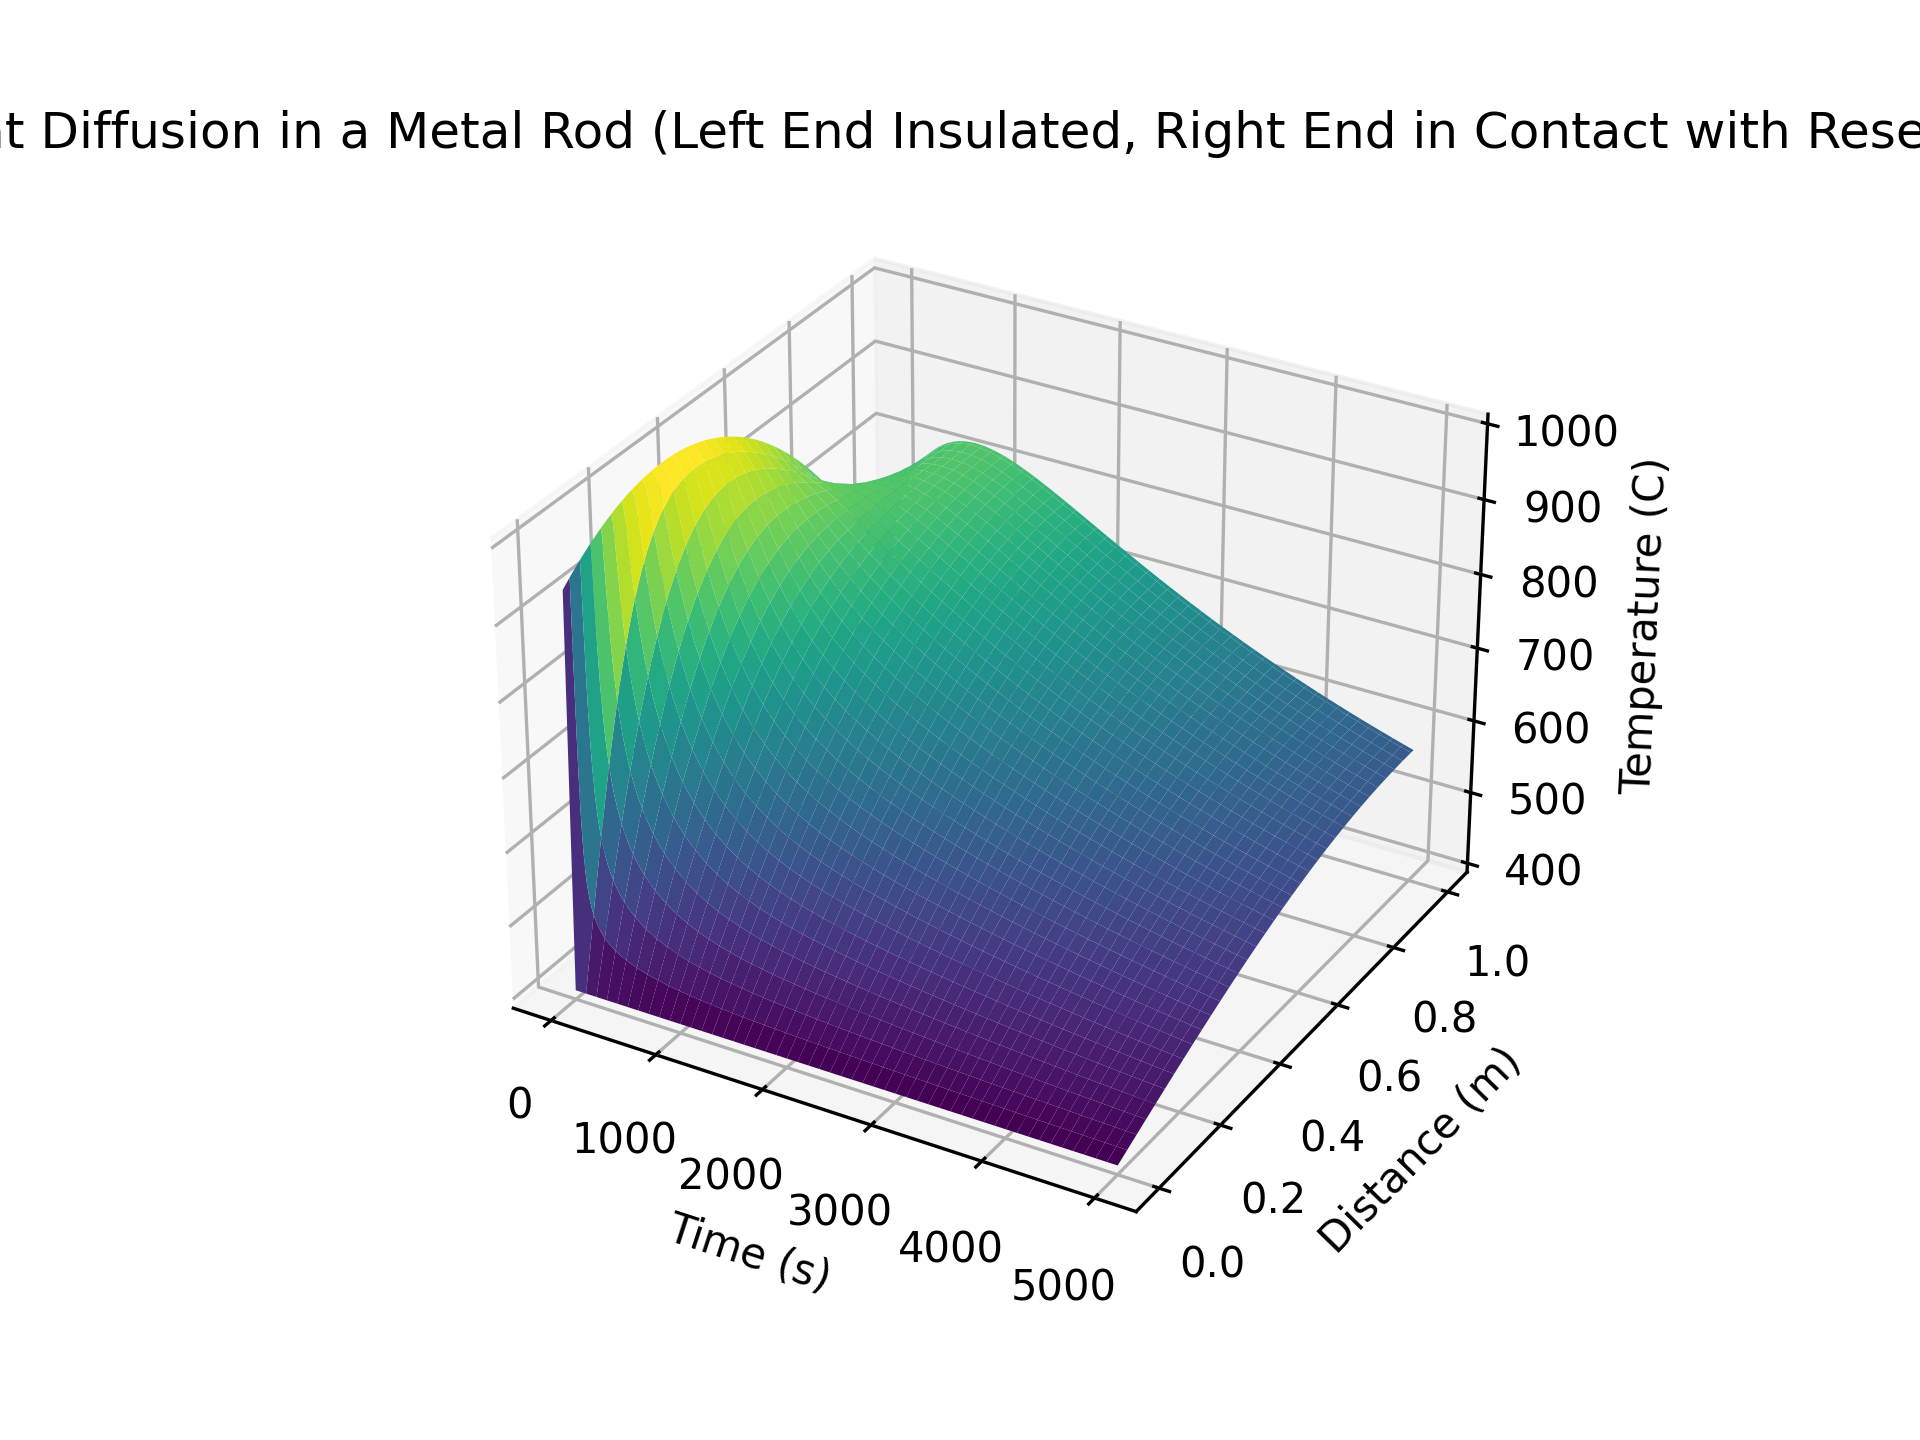
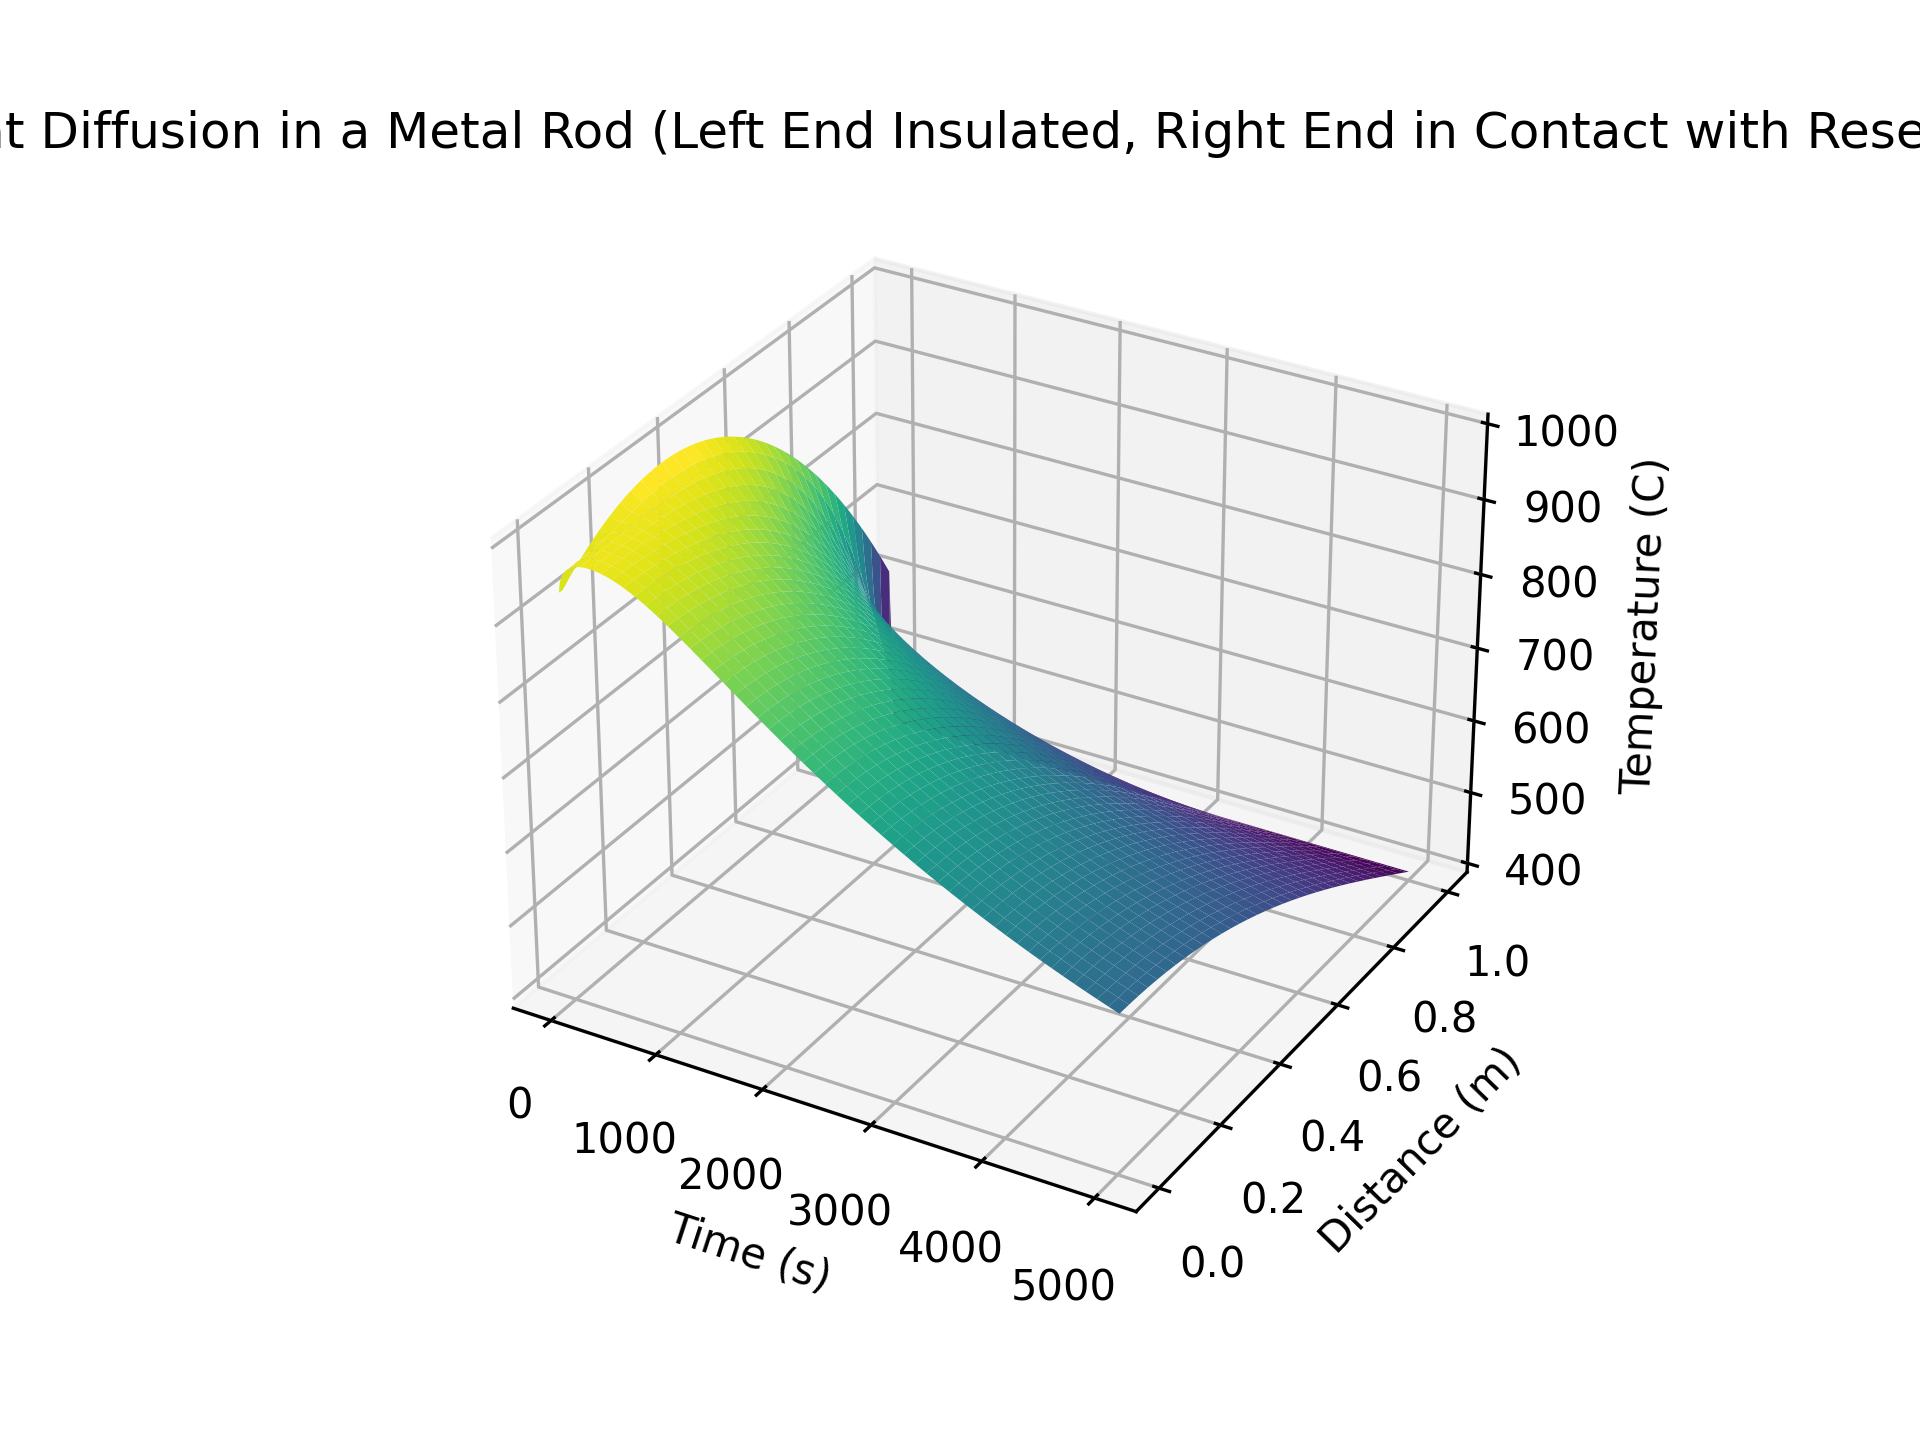
Added several rods case, TQDM and animation

Changed region(s): [[0.2812, 0.3125, 0.75, 0.8125]]

diff --git a/Heat_diffusion_in_metal_rods/Several_rods_merged.py b/Heat_diffusion_in_metal_rods/Several_rods_merged.py
@@ -1,0 +1,125 @@
+####################################################################################################
+# Solving heat diffusion for system with several metal rods of different material using 
+# finite difference method initially heated to different arbitrary temperature profiles 
+# and then joined together while keeping their extreme ends isolated. 
+# The heat flow balances in both rods to equilibriate. 
+
+# Here we have 5 rods of different materials joined together. The first, third and fifth
+# rods are made of metal with thermal diffusivity of 1e-4 m^2/s and thermal conductivity
+# of 398 W/mK. The second and fourth rods are made of metal with thermal diffusivity of
+# 1e-5 m^2/s and thermal conductivity of 100 W/mK. 
+####################################################################################################
+
+import matplotlib.pyplot as plt
+import numpy as np
+from tqdm import tqdm
+
+# Constants and parameters
+L_rod1 = 1.0  # length of the first rod
+L_rod2 = 1.0  # length of the second rod
+L_rod3 = 1.0  # length of the third rod
+L_rod4 = 1.0  # length of the fourth rod
+L_rod5 = 1.0  # length of the fifth rod
+
+alpha_rod1 = 1e-4  # thermal diffusivity for rod 1
+alpha_rod2 = 1e-5  # thermal diffusivity for rod 2
+alpha_rod3 = 1e-4  # thermal diffusivity for rod 3
+alpha_rod4 = 1e-5  # thermal diffusivity for rod 4
+alpha_rod5 = 1e-4  # thermal diffusivity for rod 5
+
+dt = 0.1  # time step
+dx = 0.01  # spatial step
+duration = 20000  # total simulation time
+
+k_rod1 = 398.0
+k_rod2 = 100.0
+k_rod3 = 398.0
+k_rod4 = 100.0
+k_rod5 = 398.0
+
+# Discretization
+Nx_rod1 = int(L_rod1 / dx) + 1
+Nx_rod2 = int(L_rod2 / dx) + 1
+Nx_rod3 = int(L_rod3 / dx) + 1
+Nx_rod4 = int(L_rod4 / dx) + 1
+Nx_rod5 = int(L_rod5 / dx) + 1
+Nt = int(duration / dt) + 1
+
+# Define spatial coordinates for each rod
+x_values_rod1 = np.linspace(0, L_rod1, Nx_rod1)
+x_values_rod2 = np.linspace(L_rod1, L_rod1 + L_rod2, Nx_rod2)
+x_values_rod3 = np.linspace(L_rod1 + L_rod2, L_rod1 + L_rod2 + L_rod3, Nx_rod3)
+x_values_rod4 = np.linspace(L_rod1 + L_rod2 + L_rod3, L_rod1 + L_rod2 + L_rod3 + L_rod4, Nx_rod4)
+x_values_rod5 = np.linspace(L_rod1 + L_rod2 + L_rod3 + L_rod4, L_rod1 + L_rod2 + L_rod3 + L_rod4 + L_rod5, Nx_rod5)
+x_values_total = np.concatenate((x_values_rod1, x_values_rod2, x_values_rod3, x_values_rod4, x_values_rod5))
+
+# Initialize temperature arrays for each rod
+T_rod1 = np.zeros((Nt, Nx_rod1))
+T_rod2 = np.zeros((Nt, Nx_rod2))
+T_rod3 = np.zeros((Nt, Nx_rod3))
+T_rod4 = np.zeros((Nt, Nx_rod4))
+T_rod5 = np.zeros((Nt, Nx_rod5))
+
+# Initial conditions for each rod
+T_rod1[0, :] = -600 * (x_values_rod2 - 1.5)**2 + 600
+T_rod2[0, :] = -800 * (x_values_rod1 - 0.5)**2 + 1000
+T_rod3[0, :] = -600 * (x_values_rod2 - 1.5)**2 + 600
+T_rod4[0, :] = -800 * (x_values_rod1 - 0.5)**2 + 1000
+T_rod5[0, :] = -600 * (x_values_rod2 - 1.5)**2 + 600
+
+# Boundary conditions
+T_rod1[:, 0] = T_rod1[:, 1]  # Isolated boundary for rod 1
+T_rod2[:, -1] = T_rod2[:, -2]  # Isolated boundary for rod 2
+T_rod3[:, -1] = T_rod3[:, -2]  # Isolated boundary for rod 3
+T_rod4[:, -1] = T_rod4[:, -2]  # Isolated boundary for rod 4
+T_rod5[:, -1] = T_rod5[:, -2]  # Isolated boundary for rod 5
+
+# Finite difference method for each rod
+for n in tqdm(range(0, Nt - 1)):
+    for i in range(1, Nx_rod1 - 1):
+        T_rod1[n + 1, i] = T_rod1[n, i] + alpha_rod1 * dt / dx**2 * (T_rod1[n, i + 1] - 2 * T_rod1[n, i] + T_rod1[n, i - 1])
+
+    for i in range(1, Nx_rod2 - 1):
+        T_rod2[n + 1, i] = T_rod2[n, i] + alpha_rod2 * dt / dx**2 * (T_rod2[n, i + 1] - 2 * T_rod2[n, i] + T_rod2[n, i - 1])
+    
+    for i in range(1, Nx_rod3 - 1):
+        T_rod3[n + 1, i] = T_rod3[n, i] + alpha_rod3 * dt / dx**2 * (T_rod3[n, i + 1] - 2 * T_rod3[n, i] + T_rod3[n, i - 1])
+
+    for i in range(1, Nx_rod4 - 1):
+        T_rod4[n + 1, i] = T_rod4[n, i] + alpha_rod4 * dt / dx**2 * (T_rod4[n, i + 1] - 2 * T_rod4[n, i] + T_rod4[n, i - 1])
+
+    for i in range(1, Nx_rod5 - 1):
+        T_rod5[n + 1, i] = T_rod5[n, i] + alpha_rod5 * dt / dx**2 * (T_rod5[n, i + 1] - 2 * T_rod5[n, i] + T_rod5[n, i - 1])
+
+    # Isolated boundary conditions for both rods
+    T_rod1[n + 1, 0] = T_rod1[n, 1]
+    T_rod2[n + 1, -1] = T_rod2[n, -2]
+    T_rod3[n + 1, -1] = T_rod3[n, -2]
+    T_rod4[n + 1, -1] = T_rod4[n, -2]
+    T_rod5[n + 1, -1] = T_rod5[n, -2]
+
+    # Boundary condition at the junction of the two rods
+    T_rod1[n + 1, -1] = (k_rod1*T_rod1[n, -2] + k_rod2*T_rod2[n, 1]) / (k_rod1 + k_rod2)
+    T_rod2[n + 1, 0] = T_rod1[n + 1, -1]
+    T_rod2[n + 1, -1] = (k_rod2*T_rod2[n, -2] + k_rod3*T_rod3[n, 1]) / (k_rod2 + k_rod3)
+    T_rod3[n + 1, 0] = T_rod2[n + 1, -1]
+    T_rod3[n + 1, -1] = (k_rod3*T_rod3[n, -2] + k_rod4*T_rod4[n, 1]) / (k_rod3 + k_rod4)
+    T_rod4[n + 1, 0] = T_rod3[n + 1, -1]
+    T_rod4[n + 1, -1] = (k_rod4*T_rod4[n, -2] + k_rod5*T_rod5[n, 1]) / (k_rod4 + k_rod5)
+    T_rod5[n + 1, 0] = T_rod4[n + 1, -1]
+
+    
+# Combine the temperatures of the two rods
+T_total = np.concatenate((T_rod1, T_rod2, T_rod3, T_rod4, T_rod5), axis=1)
+
+# Create a 3D surface plot for the total temperature
+X_total, T_values_total = np.meshgrid(x_values_total, np.linspace(0, duration, Nt))
+fig = plt.figure()
+ax = fig.add_subplot(111, projection='3d')
+ax.plot_surface(X_total, T_values_total, T_total, cmap='viridis')
+ax.set_xlabel('Distance (m)')
+ax.set_ylabel('Time (s)')
+ax.set_zlabel('Temperature (C)')
+ax.set_title('Heat Diffusion in Two Connected Rods of Different Materials')
+plt.savefig('Heat_diffusion_in_metal_rods/Plots/Heat_diffusion_in_several_connected_rods_of_different_materials.png', dpi=300)
+plt.show()

diff --git a/Heat_diffusion_in_metal_rods/anime_test.py b/Heat_diffusion_in_metal_rods/anime_test.py
@@ -1,0 +1,57 @@
+import matplotlib.pyplot as plt
+import numpy as np
+from matplotlib.animation import FuncAnimation
+from tqdm import tqdm
+
+# Constants and parameters
+L = 1.0  # length of the rod
+thickness = 0.05  # thickness of the rod
+T_reservoir = 400
+alpha = 1e-4  # thermal diffusivity
+dt = 0.8  # time step
+dx = 0.02  # spatial step
+duration = 5000  # total simulation time
+
+# Discretization
+Nx = int(L / dx) + 1
+Ny = int(thickness / dx) + 1
+Nt = int(duration / dt) + 1
+x_values = np.linspace(0, L, Nx)
+y_values = np.linspace(0, thickness, Ny)
+t_values = np.linspace(0, duration, Nt)
+
+# Initialize temperature array with the specified quadratic initial condition
+T = np.zeros((Nt, Ny, Nx))
+T[0, :, :] = -800 * (x_values - 0.3)**2 + 1000
+
+# Boundary conditions
+T[:, :, -1] = T_reservoir  # Right end in contact with the reservoir
+T[:, :, 0] = T[:, :, 1]  # Insulated left end
+
+# Finite difference method
+for n in tqdm(range(0, Nt - 1)):
+    for j in range(1, Ny - 1):
+        for i in range(1, Nx - 1):
+            T[n + 1, j, i] = T[n, j, i] + alpha * dt / dx**2 * (
+                T[n, j, i + 1] - 2 * T[n, j, i] + T[n, j, i - 1]
+            )
+
+    # Maintain the temperature at the insulated left end
+    T[n + 1, :, 0] = T[n, :, 1]
+
+print("Calculations done!")
+
+# Function to update the animation
+def update(frame):
+    ax.clear()
+    ax.imshow(T[frame, :, :], extent=[0, L, 0, thickness], aspect='auto', cmap='hot', origin='lower')
+    ax.set_xlabel('Position (m)')
+    ax.set_ylabel('Thickness (m)')
+    ax.set_title(f'Time: {frame * dt:.1f} s')
+
+
+# Create the animation
+fig, ax = plt.subplots()
+animation = FuncAnimation(fig, update, frames=Nt, interval=1, repeat=False)
+
+plt.show()

diff --git a/Heat_diffusion_in_metal_rods/Rod_with_one_end_isolated.py.py b/Heat_diffusion_in_metal_rods/Rod_with_one_end_isolated.py.py
@@ -9,6 +9,7 @@
 
 import matplotlib.pyplot as plt
 import numpy as np
+from tqdm import tqdm
 
 # Constants and parameters
 L = 1.0  # length of the rod
@@ -29,8 +30,8 @@ T = np.zeros((Nt, Nx))
 T[0, :] = -800 * (x_values - 0.3)**2 + 1000
 
 # Boundary conditions
-T[:, 0] = T_reservoir  # Right end in contact with the reservoir
-T[:, -1] = T[:, -2]  # Insulated left end
+T[:, -1] = T_reservoir  # Right end in contact with the reservoir
+T[:, 0] = T[:, 1]  # Insulated left end
 
 # Finite difference method
 for n in range(0, Nt - 1):
@@ -38,7 +39,7 @@ for n in range(0, Nt - 1):
         T[n + 1, i] = T[n, i] + alpha * dt / dx**2 * (T[n, i + 1] - 2 * T[n, i] + T[n, i - 1])
 
     # Maintain the temperature at the insulated left end
-    T[n + 1, -1] = T[n, -2]
+    T[n + 1, 0] = T[n, 1]
 
 # Create a 3D surface plot
 X, T_values = np.meshgrid(x_values, t_values)

diff --git a/Heat_diffusion_in_metal_rods/Two_different_rods_merged.py b/Heat_diffusion_in_metal_rods/Two_different_rods_merged.py
@@ -9,6 +9,7 @@
 
 import matplotlib.pyplot as plt
 import numpy as np
+from tqdm import tqdm
 
 # Constants and parameters
 L_rod1 = 1.0  # length of the first rod
@@ -45,7 +46,7 @@ T_rod1[:, 0] = T_rod1[:, 1]  # Isolated boundary for rod 1
 T_rod2[:, -1] = T_rod2[:, -2]  # Isolated boundary for rod 2
 
 # Finite difference method for each rod
-for n in range(0, Nt - 1):
+for n in tqdm(range(0, Nt - 1)):
     for i in range(1, Nx_rod1 - 1):
         T_rod1[n + 1, i] = T_rod1[n, i] + alpha_rod1 * dt / dx**2 * (T_rod1[n, i + 1] - 2 * T_rod1[n, i] + T_rod1[n, i - 1])
 

diff --git a/Heat_diffusion_in_metal_rods/Rod_with_two_fixed_temp_ends.py b/Heat_diffusion_in_metal_rods/Rod_with_two_fixed_temp_ends.py
@@ -6,6 +6,7 @@
 
 import matplotlib.pyplot as plt
 import numpy as np
+from tqdm import tqdm
 
 # Constants and parameters
 L = 1.0  # length of the rod
@@ -34,7 +35,7 @@ T[:, 0] = T_left
 T[:, -1] = T_right
 
 # Finite difference method
-for n in range(0, Nt - 1):
+for n in tqdm(range(0, Nt - 1)):
     for i in range(1, Nx - 1):
         T[n + 1, i] = T[n, i] + alpha * dt / dx**2 * (T[n, i + 1] - 2 * T[n, i] + T[n, i - 1])
 

diff --git a/README.md b/README.md
@@ -2,12 +2,8 @@
 
 The project aims to solve a physics problem using numerical techniques as a part of term paper project in the course P452-Computational Physics. This folder contains the necessary details and progress of the project. It also contains the codes used to solve the problem statement.
 
-## Description of the project
-The project aims to apply the Ficksian diffusion equation to physical systems to obtain solutions. Some systems are mentioned below:
-
-### 1. Heat diffusion in metal rods
-The most simple system to apply the diffusion equation is the heat transfer in metal rods. Here we apply it to three different cases to understand the heat diffusion equation and find the flow of heat with both length and time. 
-
 ## Problem Statement - 
-We aim to solve
 
+## Description of the project
+### Heat diffusion in metal rods
+The most simple system to apply the diffusion equation is the heat transfer in metal rods. Here we apply it to three different cases to understand the heat diffusion equation and find the flow of heat with both length and time. 
